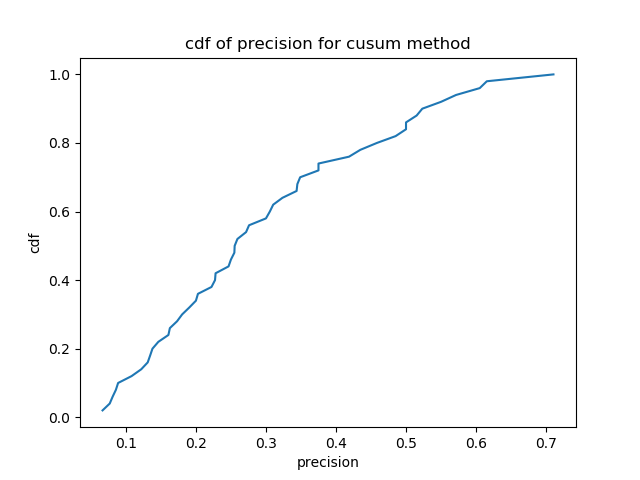
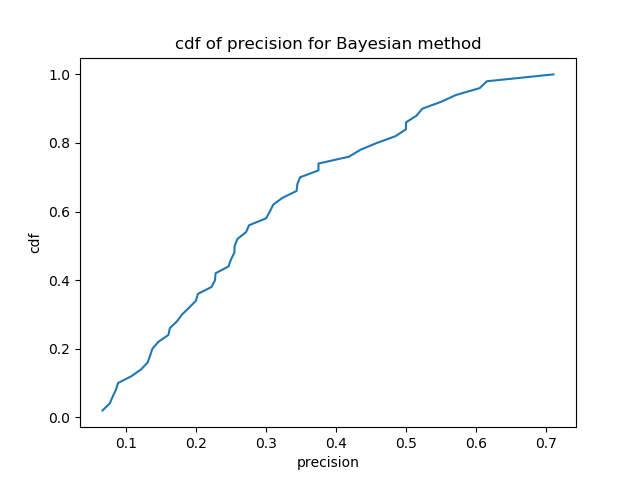
New graphs based on the results of an optimized evaluation (with a window)

Changed region(s): [[0.2812, 0.0625, 0.75, 0.125]]

diff --git a/evaluation_detection.py b/evaluation_detection.py
@@ -4,7 +4,7 @@ import cusum_first_implementation as cusum
 import tools.evaluation as eval
 import matplotlib.pyplot as plt
 import numpy as np
-import baysiancpdetection as baycpd #To be removed (commented) if not needed (needs R)
+#import baysiancpdetection as baycpd #To be removed (commented) if not needed (needs R)
 
 
 def evaluationDataSet(folder):
@@ -58,7 +58,7 @@ def evaluationDataSet(folder):
 
 
 def cdf_precision_cusum():
-    precision = csv.csv2list('./results/resultCUSUM.csv', 'precision')
+    precision = csv.csv2list('./results/resultCUSUM_w.csv', 'precision')
     cdf = [float(k+1)/len(precision) for k in range(len(precision))]
     precision.sort()
     plt.plot(precision, cdf)
@@ -70,7 +70,7 @@ def cdf_precision_cusum():
 
 
 def cdf_recall_cusum():
-    recall = csv.csv2list('./results/resultCUSUM.csv', 'recall')
+    recall = csv.csv2list('./results/resultCUSUM_w.csv', 'recall')
     cdf = [float(k+1)/len(recall) for k in range(len(recall))]
     recall.sort()
     plt.plot(recall, cdf)
@@ -82,34 +82,34 @@ def cdf_recall_cusum():
 
 
 def cdf_precision_baysian():
-    precision = csv.csv2list('./results/resultBaysian.csv', 'precision')
+    precision = csv.csv2list('./results/resultBayesian_w.csv', 'precision')
     cdf = [float(k+1)/len(precision) for k in range(len(precision))]
     precision.sort()
     plt.plot(precision, cdf)
     plt.xlabel("precision")
     plt.ylabel("cdf")
-    plt.title("cdf of precision for cusum method")
+    plt.title("cdf of precision for Bayesian method")
     plt.show()
     return
 
 
 def cdf_recall_baysian():
-    recall = csv.csv2list('./results/resultBaysian.csv', 'recall')
+    recall = csv.csv2list('./results/resultBayesian_w.csv', 'recall')
     cdf = [float(k+1)/len(recall) for k in range(len(recall))]
     recall.sort()
     plt.plot(recall, cdf)
     plt.xlabel("recall")
     plt.ylabel("cdf")
-    plt.title("cdf of recall for cusum method")
+    plt.title("cdf of recall for Bayesian method")
     plt.show()
     return
 
 
 # Function that calculate and plot the Fn measure for both methods (n is generally 1 or 2)
 def Fn_score(n):
-    recallBayesian = csv.csv2list('./results/resultBaysian.csv', 'recall')
+    recallBayesian = csv.csv2list('./results/resultBayesian_w.csv', 'recall')
     precisionBayesian = csv.csv2list(
-        './results/resultBaysian.csv', 'precision')
+        './results/resultBayesian_w.csv', 'precision')
 
     Fn_bayesian = []
     for i in range(len(recallBayesian)):
@@ -120,8 +120,8 @@ def Fn_score(n):
         else:
             Fn_bayesian.append(0)
 
-    recallCusum = csv.csv2list('./results/resultCUSUM.csv', 'recall')
-    precisionCusum = csv.csv2list('./results/resultCUSUM.csv', 'precision')
+    recallCusum = csv.csv2list('./results/resultCUSUM_w.csv', 'recall')
+    precisionCusum = csv.csv2list('./results/resultCUSUM_w.csv', 'precision')
 
     Fn_cusum = []
     for i in range(len(recallCusum)):
@@ -144,8 +144,8 @@ def Fn_score(n):
 
 
 def comparison_precision():
-    precisionC = csv.csv2list('./results/resultCUSUM.csv', 'precision')
-    precisionB = csv.csv2list('./results/resultBaysian.csv', 'precision')
+    precisionC = csv.csv2list('./results/resultCUSUM_w.csv', 'precision')
+    precisionB = csv.csv2list('./results/resultBayesian_w.csv', 'precision')
     cdf = [float(k+1)/len(precisionC) for k in range(len(precisionC))]
     precisionC.sort()
     precisionB.sort()
@@ -160,8 +160,8 @@ def comparison_precision():
 
 
 def comparison_recall():
-    recallC = csv.csv2list('./results/resultCUSUM.csv', 'recall')
-    recallB = csv.csv2list('./results/resultBaysian.csv', 'recall')
+    recallC = csv.csv2list('./results/resultCUSUM_w.csv', 'recall')
+    recallB = csv.csv2list('./results/resultBayesian_w.csv', 'recall')
     cdf = [float(k+1)/len(recallC) for k in range(len(recallC))]
     recallC.sort()
     recallB.sort()
@@ -176,10 +176,10 @@ def comparison_recall():
 
 
 def recall_precision():
-    precisionC = csv.csv2list('./results/resultCUSUM.csv', 'precision')
-    precisionB = csv.csv2list('./results/resultBaysian.csv', 'precision')
-    recallC = csv.csv2list('./results/resultCUSUM.csv', 'recall')
-    recallB = csv.csv2list('./results/resultBaysian.csv', 'recall')
+    precisionC = csv.csv2list('./results/resultCUSUM_w.csv', 'precision')
+    precisionB = csv.csv2list('./results/resultBayesian_w.csv', 'precision')
+    recallC = csv.csv2list('./results/resultCUSUM_w.csv', 'recall')
+    recallB = csv.csv2list('./results/resultBayesian_w.csv', 'recall')
     plt.plot(precisionC, recallC, "rx", label="cusum method")
     plt.plot(precisionB, recallB, "bx", label="bayesian method")
     plt.legend()
